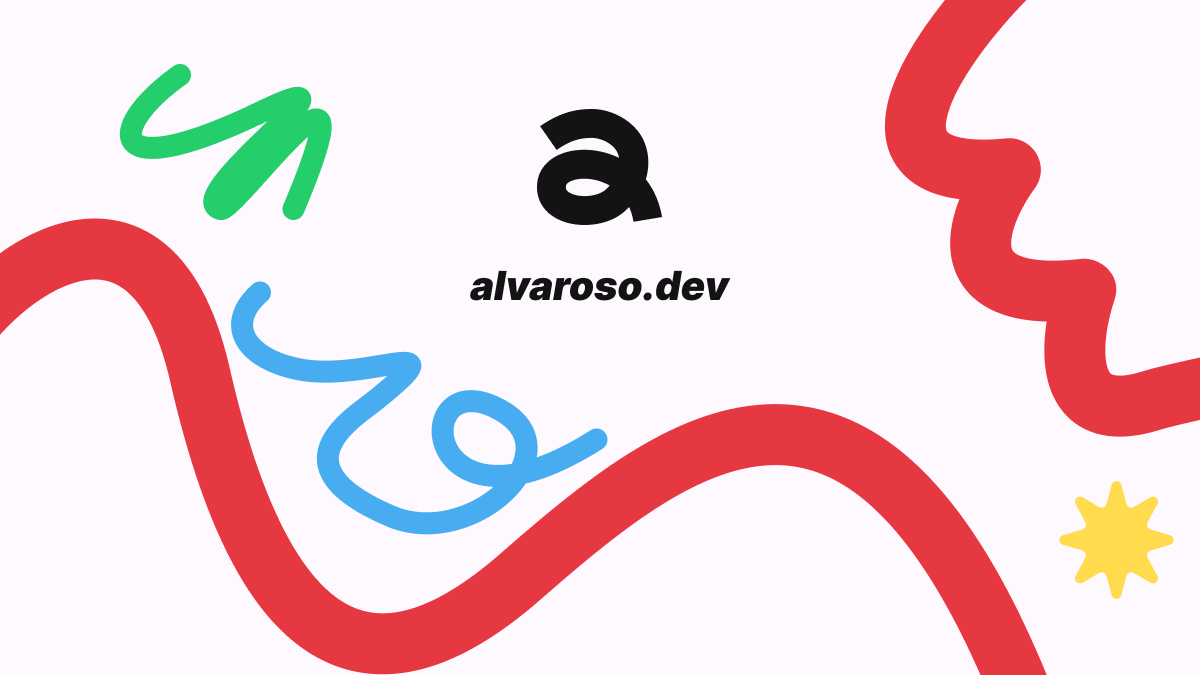
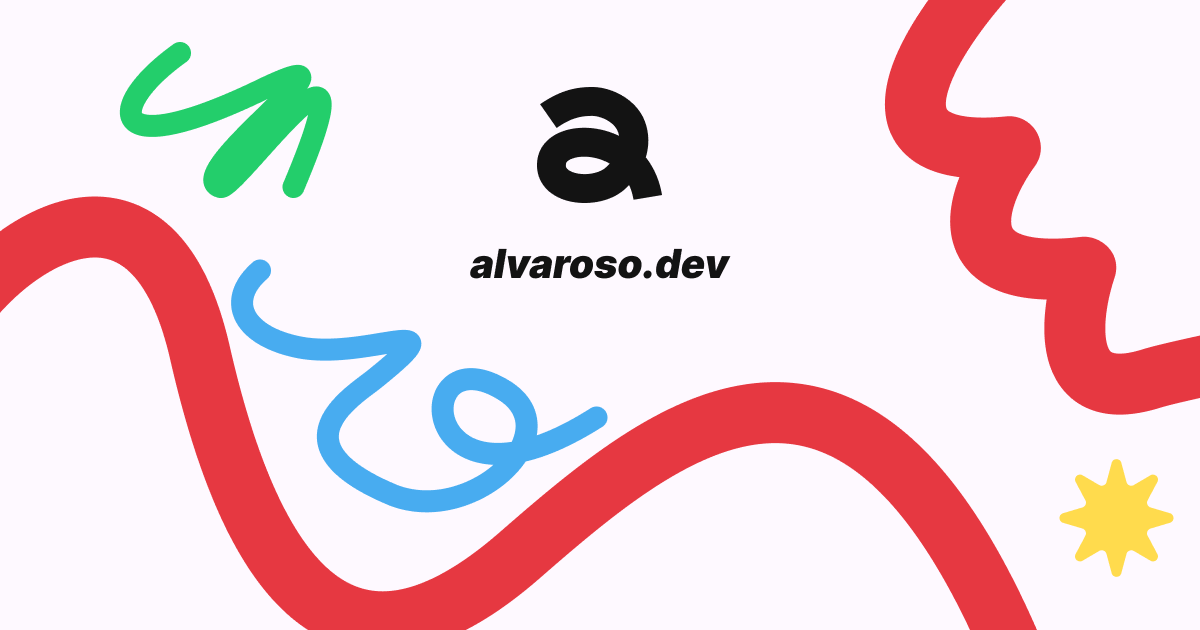
Improve SEO metadata: add OG tags to root, site_name, locale, JSON-LD and fix image ratio
- Add full OpenGraph/Twitter metadata to redirect root so alvaroso.dev shows a preview
- Add og:site_name, og:locale, og:image:alt and Person JSON-LD schema
- Crop metadata image to 1200x630 (1.91:1) and update dimension tags
- Lengthen og:description to ~120 chars for better CTR

diff --git a/src/i18n/es.ts b/src/i18n/es.ts
@@ -3,7 +3,8 @@ export const es = {
     title: "Álvaro Barbero — Desarrollador Web",
     description:
       "Álvaro Barbero — Desarrollo web y ciberseguridad. Software que funciona, productos que duran.",
-    ogDescription: "Software que funciona. Productos que duran.",
+    ogDescription: "Desarrollo web y ciberseguridad desde España. Creo software real y productos que perduran, del primer commit al despliegue.",
+    ogImageAlt: "Álvaro Barbero — Desarrollo web y ciberseguridad",
   },
   nav: {
     projects: "Proyectos",

diff --git a/src/i18n/en.ts b/src/i18n/en.ts
@@ -2,7 +2,8 @@ export const en = {
   meta: {
     title: "Álvaro Barbero — Web Developer",
     description: "Álvaro Barbero — Web Developer and Cybersecurity. Real software, built to last.",
-    ogDescription: "Real software, built to last.",
+    ogDescription: "Web Developer & Cybersecurity from Spain. I build real software and products that last — from the first commit to deploy.",
+    ogImageAlt: "Álvaro Barbero — Web Developer and Cybersecurity",
   },
   nav: {
     projects: "Projects",
